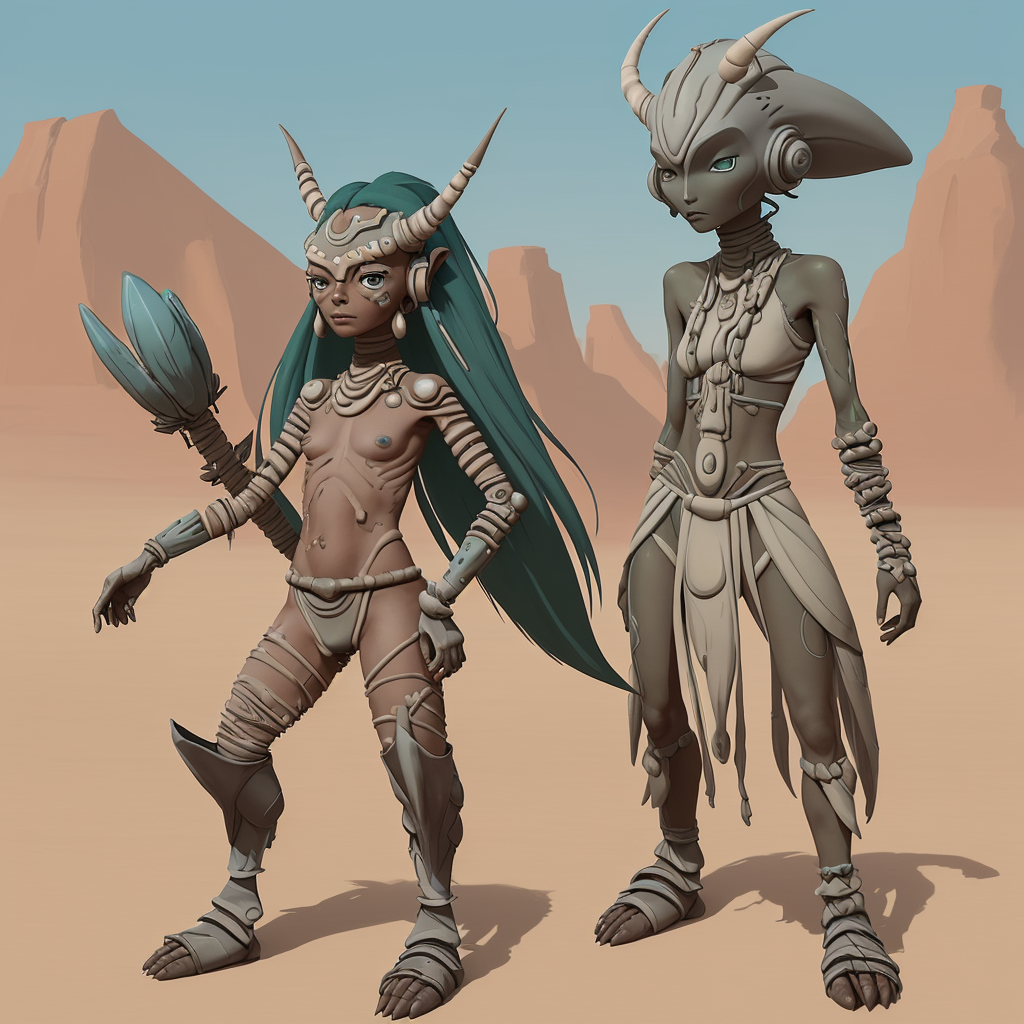
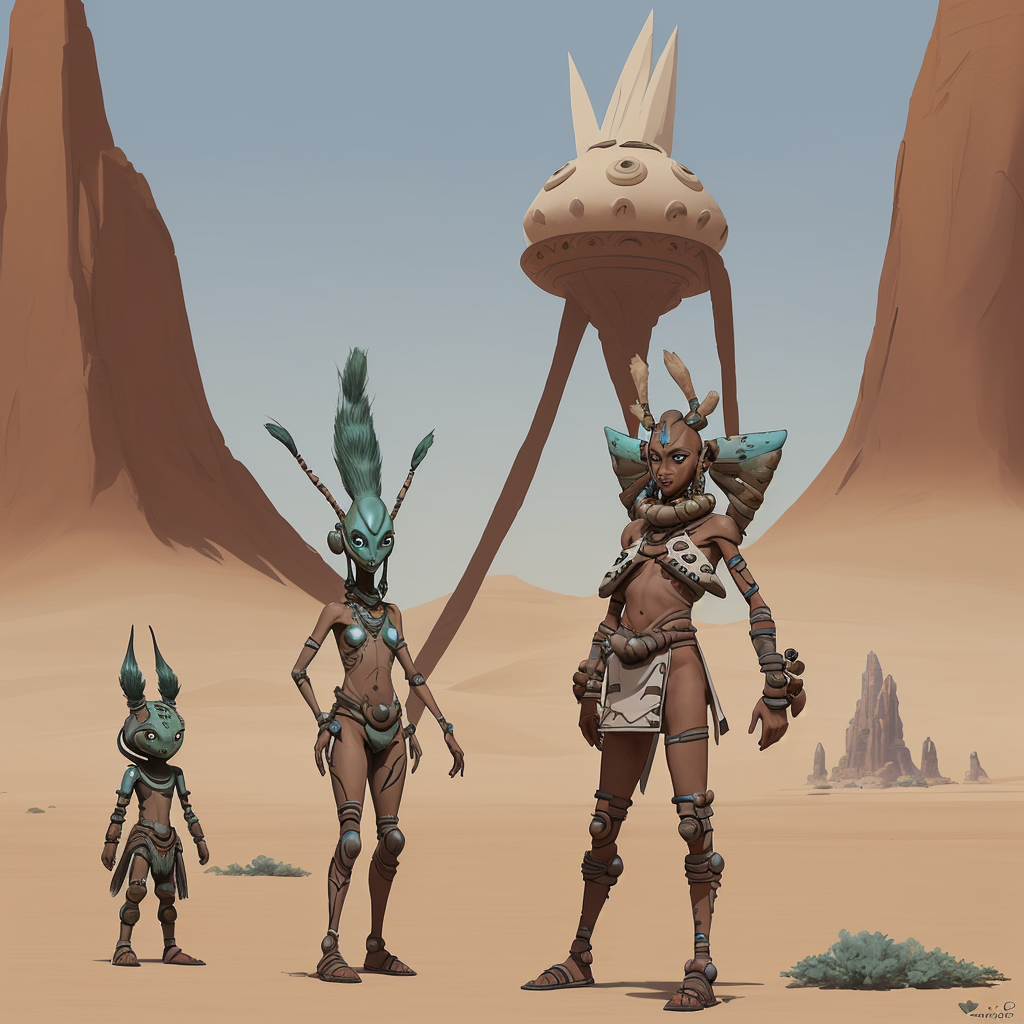
Added image aae26ff13d105c13954b203e9e5da79e to Caneta-Silva/weeb

diff --git a/images/aae26ff13d105c13954b203e9e5da79e/aae26ff13d105c13954b203e9e5da79e.md b/images/aae26ff13d105c13954b203e9e5da79e/aae26ff13d105c13954b203e9e5da79e.md
@@ -9,28 +9,28 @@
 | Field          | Value                                                                                                                     |
 |----------------|---------------------------------------------------------------------------------------------------------------------------|
 | **Image ID**             | aae26ff13d105c13954b203e9e5da79e                                                                                                             |
-| **Title**           | Futuristic Alien Desert Tribe Warrior: Studio Ghibli Style                                                                                                       |
+| **Title**           | Desert Nomad: A Futuristic Alien Warrior                                                                                                       |
 | **Description**           | Create a landscape full body image of a futuristic alien desert tribe warrior in the style of Studio Ghibli                                                                                                       |
-| **CreatedAt**        | 2024-12-15 20:58:12.409674                                                                                                        |
+| **CreatedAt**        | 2024-12-15 22:03:07.922125                                                                                                        |
 | **Model**        | dreamshaper                                                                                                        |
-| **OpenAI**         | [OpenAI Image URL](http://192.168.1.85:8081/generated-images/b641110513823.png)                                                                                |
+| **OpenAI**         | [OpenAI Image URL](http://192.168.1.85:8081/generated-images/b641350616038.png)                                                                                |
 | **GitHub**         | [GitHub Image URL](https://raw.githubusercontent.com/Caneta-Silva/weeb/refs/heads/main/images/aae26ff13d105c13954b203e9e5da79e/aae26ff13d105c13954b203e9e5da79e.jpg)                                                                                |
 | **Tags**       | None                                                                                                                   |
 
-### 📜 a6ad9e91dab46d5c8a27b17f003afacb
+### 📜 861caa29757fa624e0dc3d42e8d797e2
 
 > Create a landscape full body image of a futuristic alien desert tribe warrior in the style of Studio Ghibli
 
 | Field          | Value                                                                                                                                                                      |
 |----------------|----------------------------------------------------------------------------------------------------------------------------------------------------------------------------|
-| **Prompt ID**  | a6ad9e91dab46d5c8a27b17f003afacb                                                                                                                                                            |
+| **Prompt ID**  | 861caa29757fa624e0dc3d42e8d797e2                                                                                                                                                            |
 | **Prompt History** | <ul><li>**Input:**  <br> **Output:**  <br> **Type:** </li></ul> |
 | **Created At** |                                                                                                                                                    |
 | **Revised At** | None                                                                                                                                                   |
 | **Revised Prompt** | No                                                                                                                                                                      |
 | **Enhanced At** | None                                                                                                                                                  |
 | **Enhanced Prompt** | No                                                                                                                                                                    |
-| **Metadata**   | <ul><li>**Element:** desert tribe warrior <br> **Style:** Studio Ghibli <br> **Aspect Ratio:** landscape <br> **Backdrop:** waterfall <br> **Animal:** gnu <br> **Modifiers:**<ul><li>**Image:** full body</li><li>**Element:** futuristic alien</li><li>**Backdrop:** futuristic alien</li></ul></li></ul> |
+| **Metadata**   | <ul><li>**Element:** desert tribe warrior <br> **Style:** Studio Ghibli <br> **Aspect Ratio:** landscape <br> **Backdrop:** fortress <br> **Animal:** gnu <br> **Modifiers:**<ul><li>**Image:** full body</li><li>**Element:** futuristic alien</li><li>**Backdrop:** alien</li></ul></li></ul> |
 | **Template**   | Create a {{ aspect_ratio }} {{ modifiers.image }} image of a {{ modifiers.element }} {{ element }} in the style of {{ style }}                                                                                                                                           |
 
 
